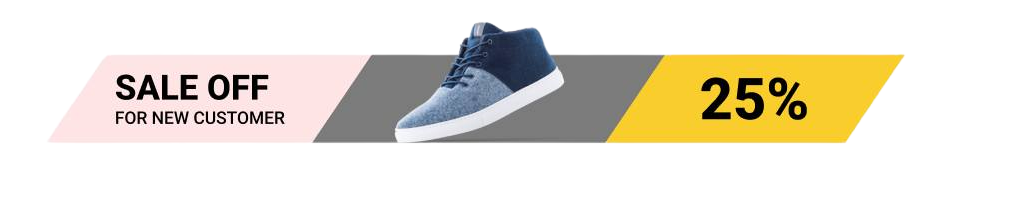
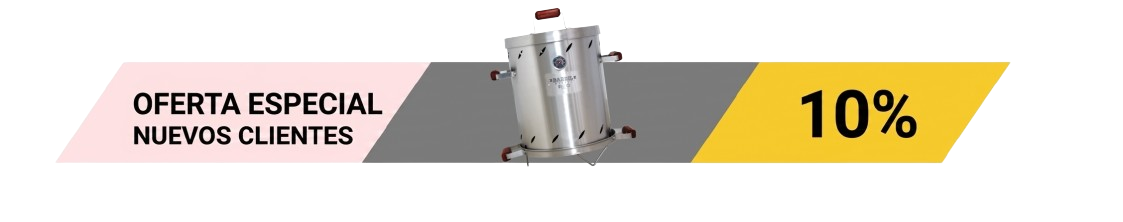
Nuevas imaganes para la pagina

Changed region(s): [[0.0307, 0.03, 0.9208, 0.75], [0.8594, 0.33, 0.8901, 0.57], [0.0307, 0.63, 0.0614, 0.69]]

diff --git a/components/FeaturedBanners.jsx b/components/FeaturedBanners.jsx
@@ -12,7 +12,7 @@ const FeaturedBanners = () => {
       title: "Fresh Smoothie & Summer Juice",
       description:
         "Lorem ipsum dolor sit amet, consectetur adipiscing elit. Dignissim massa diam elementum.",
-      image: "/images/product-thumb-1.png",
+      image: "/images/barril.png",
       buttonText: "Shop Now",
     },
     {
@@ -21,18 +21,18 @@ const FeaturedBanners = () => {
       title: "Fresh Smoothie & Summer Juice",
       description:
         "Lorem ipsum dolor sit amet, consectetur adipiscing elit. Dignissim massa diam elementum.",
-      image: "/images/product-thumb-1.png",
+      image: "/images/setBBQnintenod .png",
       buttonText: "Shop Collection",
     },
-    {
-      id: 3,
-      category: "100% natural",
-      title: "Heinz Tomato Ketchup",
-      description:
-        "Lorem ipsum dolor sit amet, consectetur adipiscing elit. Dignissim massa diam elementum.",
-      image: "/images/product-thumb-2.png",
-      buttonText: "Shop Collection",
-    },
+    // {
+    //   id: 3,
+    //   category: "100% natural",
+    //   title: "Heinz Tomato Ketchup",
+    //   description:
+    //     "Lorem ipsum dolor sit amet, consectetur adipiscing elit. Dignissim massa diam elementum.",
+    //   image: "/images/product-thumb-2.png",
+    //   buttonText: "Shop Collection",
+    // },
   ];
 
   // Auto-play carousel

diff --git a/components/Header.jsx b/components/Header.jsx
@@ -57,7 +57,7 @@ const Header = ({ cartTotal = "$1290.00" }) => {
             <div className="main-logo">
               <Link href="/">
                 <img
-                  src="/logo.png"
+                  src="/logo2.png"
                   alt="FoodMart - Grocery Store"
                   className="h-10 sm:h-12 lg:h-[54px] w-auto inline-block"
                 />

diff --git a/components/CategoriesBanner.jsx b/components/CategoriesBanner.jsx
@@ -16,7 +16,13 @@ import {
 import Link from "next/link";
 
 const categories = [
-  { id: 1, title: "Carnes", slug: "carnes", icon: Beef, color: "text-red-600" },
+  {
+    id: 1,
+    title: "Carnes",
+    slug: "carnes-y-embutidos",
+    icon: Beef,
+    color: "text-red-600",
+  },
   {
     id: 2,
     title: "Congelados",
